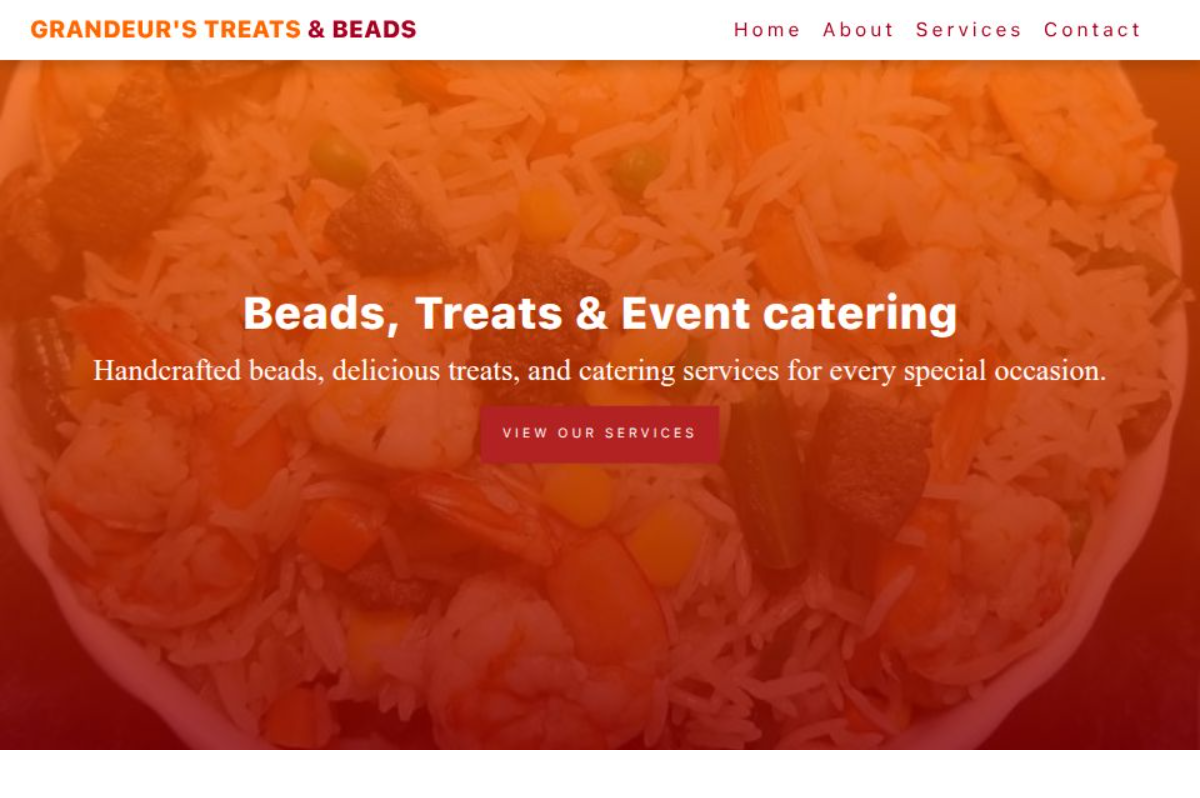
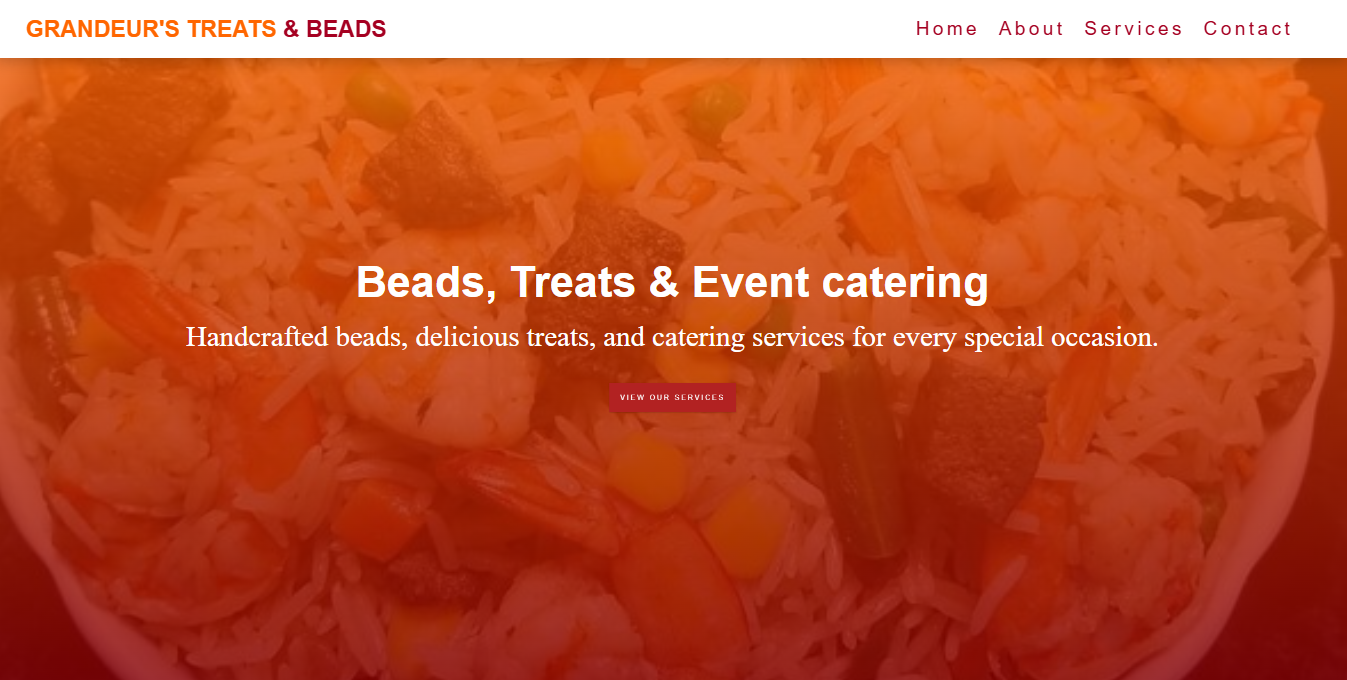
project sction updated and revealonscroll file commit

diff --git a/Portfolio/src/Comp/projects.jsx b/Portfolio/src/Comp/projects.jsx
@@ -1,5 +1,6 @@
 import React, { useRef } from 'react';
-import { motion, useInView } from 'framer-motion';
+import { useInView } from 'framer-motion';
+import RevealOnScroll from './RevealOnScroll';
 
 const projects = [
   {
@@ -42,104 +43,111 @@ const projects = [
   },
 ];
 
-const Projects = () => {
-  const servicesRef = useRef(null);
+// Plain markup now — RevealOnScroll (wrapped around this in the .map() below)
+// is what handles the animation, so this component no longer needs motion.div itself.
+const ProjectCard = ({ p }) => {
+  return (
+    <div className='grid grid-cols-1 md:grid-cols-2 gap-6 md:gap-14 items-center py-10 sm:py-12'>
+      {/* image */}
+      <div
+        className={`relative w-full md:h-80 rounded border border-[var(--border)] overflow-hidden ${
+          p.reverse ? 'md:order-2' : 'md:order-1'
+        }`}
+      >
+        <span
+          className={`absolute top-3 left-3 z-10 text-xs font-semibold px-3 py-1 rounded-full border ${
+            p.status === 'ongoing'
+              ? 'bg-amber-100 text-amber-700 border-amber-200'
+              : 'bg-emerald-100 text-emerald-700 border-emerald-200'
+          }`}
+        >
+          {p.status === 'ongoing' ? 'Ongoing Project' : 'Completed'}
+        </span>
 
-  const isInView = useInView(servicesRef, {
-    once: true,
-    amount: 0.1,
-  });
+        <img src={p.img} alt={p.title} className='block w-full h-full' />
+      </div>
+
+      {/* text */}
+      <div className={p.reverse ? 'md:order-1' : 'md:order-2'}>
+        <span className='text-sm font-medium tracking-wide text-[var(--blue-PRY)]'>
+          {p.tag}
+        </span>
+        <h3 className='text-xl sm:text-2xl font-semibold text-[var(--mainText)] mt-2.5 mb-3'>
+          {p.title}
+        </h3>
+        <p className='text-[var(--secoundaryText)] text-[15px] leading-relaxed max-w-[440px] mb-4'>
+          {p.desc}
+        </p>
+        <div className='flex flex-wrap gap-2 mb-5'>
+          {p.stack.map((s) => (
+            <span
+              key={s}
+              className='px-3 py-1 border border-[var(--border)] text-[var(--mainText)] font-medium text-sm rounded-lg'
+            >
+              {s}
+            </span>
+          ))}
+        </div>
+        <div>
+          {p.status === 'ongoing' ? (
+            <span
+              aria-disabled='true'
+              className='inline-flex items-center gap-2 px-4 py-2 text-[var(--secoundaryText)] font-bold rounded-md border border-[var(--border)] bg-[var(--navbar)] text-base opacity-50 cursor-not-allowed'
+            >
+              <span>Coming Soon</span>
+            </span>
+          ) : (
+            <a
+              href={p.livelink}
+              target='_blank'
+              className='group inline-flex items-center gap-2 px-4 py-2 text-white font-bold rounded-md transition-all duration-300 hover:-translate-y-1 hover:bg-[var(--accent)] bg-[var(--blue-PRY)] text-base'
+            >
+              <span>Live Demo</span>
+              <span className='transition-transform duration-300 rotate-[-30deg] group-hover:rotate-0 w-fit text-xl text-white'>
+                →
+              </span>
+            </a>
+          )}
+        </div>
+      </div>
+    </div>
+  );
+};
+
+const Projects = () => {
+  const headerRef = useRef(null);
+  const headerInView = useInView(headerRef, { once: true, amount: 0.2 });
+
   return (
     <section
       id='projects'
-      ref={servicesRef}
       className='w-full bg-[var(--bg-CL)] px-5 sm:px-8 md:px-12 lg:px-32 py-16 sm:py-24 lg:py-28'
     >
-      <div
-        className={`max-w-[1200px] mx-auto ${isInView ? 'animate-slide-in' : 'opacity-0'}`}
-      >
-        <div className='flex items-center gap-2 mb-3.5'>
-          <span className='w-1.5 h-1.5 rounded-full bg-[var(--blue-PRY)]'></span>
-          <span className='text-sm font-semibold text-[var(--blue-PRY)]'>
-            Projects
-          </span>
-        </div>
+      <div className='max-w-[1200px] mx-auto'>
+        <div
+          ref={headerRef}
+          className={`transition-opacity duration-700 ${headerInView ? 'opacity-100' : 'opacity-0'}`}
+        >
+          <div className='flex items-center gap-2 mb-3.5'>
+            <span className='w-1.5 h-1.5 rounded-full bg-[var(--blue-PRY)]'></span>
+            <span className='text-sm font-semibold text-[var(--blue-PRY)]'>
+              Work I've shipped
+            </span>
+          </div>
 
-        <h2 className='font-semibold text-[var(--mainText)] leading-tight text-[28px] sm:text-[34px] lg:text-[40px] max-w-[600px]'>
-          A few things I've shipped recently
-        </h2>
+          <h2 className='font-semibold text-[var(--mainText)] leading-tight text-[28px] sm:text-[34px] lg:text-[40px] max-w-[600px]'>
+            A look at some of the products and experiences I've built.
+          </h2>
+        </div>
 
         <div className='mt-6 sm:mt-10'>
           {projects.map((p, i) => (
-            <div
+            <RevealOnScroll
               key={p.title}
-              className={`grid grid-cols-1 md:grid-cols-2 gap-6 md:gap-14 items-center py-10 sm:py-12 ${
-                i !== 0 ? 'border-t border-[var(--border)]' : ''
-              }`}
+              className={i !== 0 ? 'border-t border-[var(--border)]' : ''}
             >
-              {/* image */}
-              <div
-                className={`relative aspect-[16/11] rounded border border-[var(--border)] ${
-                  p.reverse ? 'md:order-2' : 'md:order-1'
-                }`}
-              >
-                <span
-                  className={`absolute top-3 left-3 text-xs font-semibold px-3 py-1 rounded-full border ${
-                    p.status === 'ongoing'
-                      ? 'bg-amber-100 text-amber-700 border-amber-200'
-                      : 'bg-emerald-100 text-emerald-700 border-emerald-200'
-                  }`}
-                >
-                  {p.status === 'ongoing' ? 'Ongoing Project' : 'Completed'}
-                </span>
-                <img src={p.img} alt='project-img' className='' />
-              </div>
-
-              {/* text */}
-              <div className={p.reverse ? 'md:order-1' : 'md:order-2'}>
-                <span className='text-sm font-medium tracking-wide text-[var(--blue-PRY)]'>
-                  {p.tag}
-                </span>
-                <h3 className='text-xl sm:text-2xl font-semibold text-[var(--mainText)] mt-2.5 mb-3'>
-                  {p.title}
-                </h3>
-                <p className='text-[var(--secoundaryText)] text-[15px] leading-relaxed max-w-[440px] mb-4'>
-                  {p.desc}
-                </p>
-                <div className='flex flex-wrap gap-2 mb-5'>
-                  {p.stack.map((s) => (
-                    <span className='px-3 py-1 border border-[var(--border)] text-[var(--mainText)] font-medium text-sm rounded-lg'>
-                      {s}
-                    </span>
-                  ))}
-                </div>
-                <div className='flex items-center gap-2 md:gap-4'>
-                  <a
-                    href={p.gitlink}
-                    className='px-2 py-1.5 bg-[var(--blue-PRY)] text-white font-medium rounded-md hover:bg-[var(--accent)] transition-all duration-300 hover:-translate-y-1 text-base'
-                  >
-                    <i className='fa-brands fa-github text-2xl'></i>
-                  </a>
-
-                  {p.status === 'ongoing' ? (
-                    <span
-                      aria-disabled='true'
-                      className='inline-flex items-center gap-2 px-4 py-2 text-[var(--secoundaryText)] font-bold rounded-md border border-[var(--border)] bg-[var(--navbar)] text-base opacity-50 cursor-not-allowed'
-                    >
-                      <span>Coming Soon</span>
-                    </span>
-                  ) : (
-                    <a
-                      href={p.livelink}
-                      className='group inline-flex items-center gap-2 px-4 py-2 text-[var(--mainText)] font-bold rounded-md border border-[var(--border)] transition-all duration-300 hover:-translate-y-1 hover:bg-[var(--border)] bg-[var(--navbar)] text-base'
-                    >
-                      <span>Live Demo</span>
-                      <i className='fa-solid fa-arrow-up transition-transform duration-300 rotate-45 group-hover:rotate-90'></i>
-                    </a>
-                  )}
-                </div>
-              </div>
-            </div>
+              <ProjectCard p={p} />
+            </RevealOnScroll>
           ))}
         </div>
       </div>

diff --git a/Portfolio/src/Comp/revealonscroll.jsx b/Portfolio/src/Comp/revealonscroll.jsx
@@ -1,0 +1,34 @@
+import React from 'react';
+import { motion } from 'framer-motion';
+
+const RevealOnScroll = ({
+  children,
+  direction = 'up',
+  distance = 50,
+  duration = 0.7,
+  delay = 0,
+  amount = 0.2,
+  once = true,
+  className = '',
+}) => {
+  const offsets = {
+    up: { y: distance },
+    down: { y: -distance },
+    left: { x: distance },
+    right: { x: -distance },
+  };
+
+  return (
+    <motion.div
+      initial={{ opacity: 0, ...offsets[direction] }}
+      whileInView={{ opacity: 1, x: 0, y: 0 }}
+      viewport={{ once, amount }}
+      transition={{ duration, delay, ease: [0.22, 1, 0.36, 1] }}
+      className={className}
+    >
+      {children}
+    </motion.div>
+  );
+};
+
+export default RevealOnScroll;
